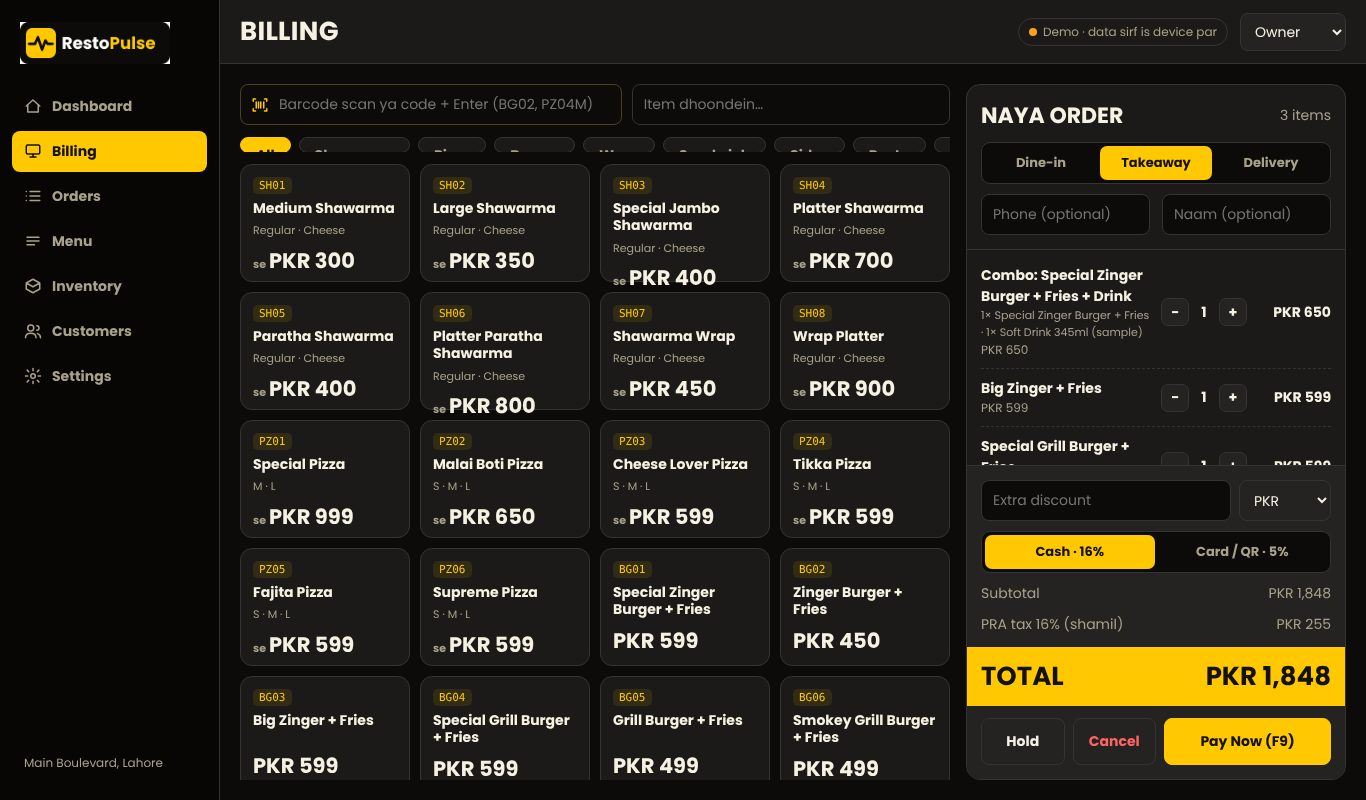
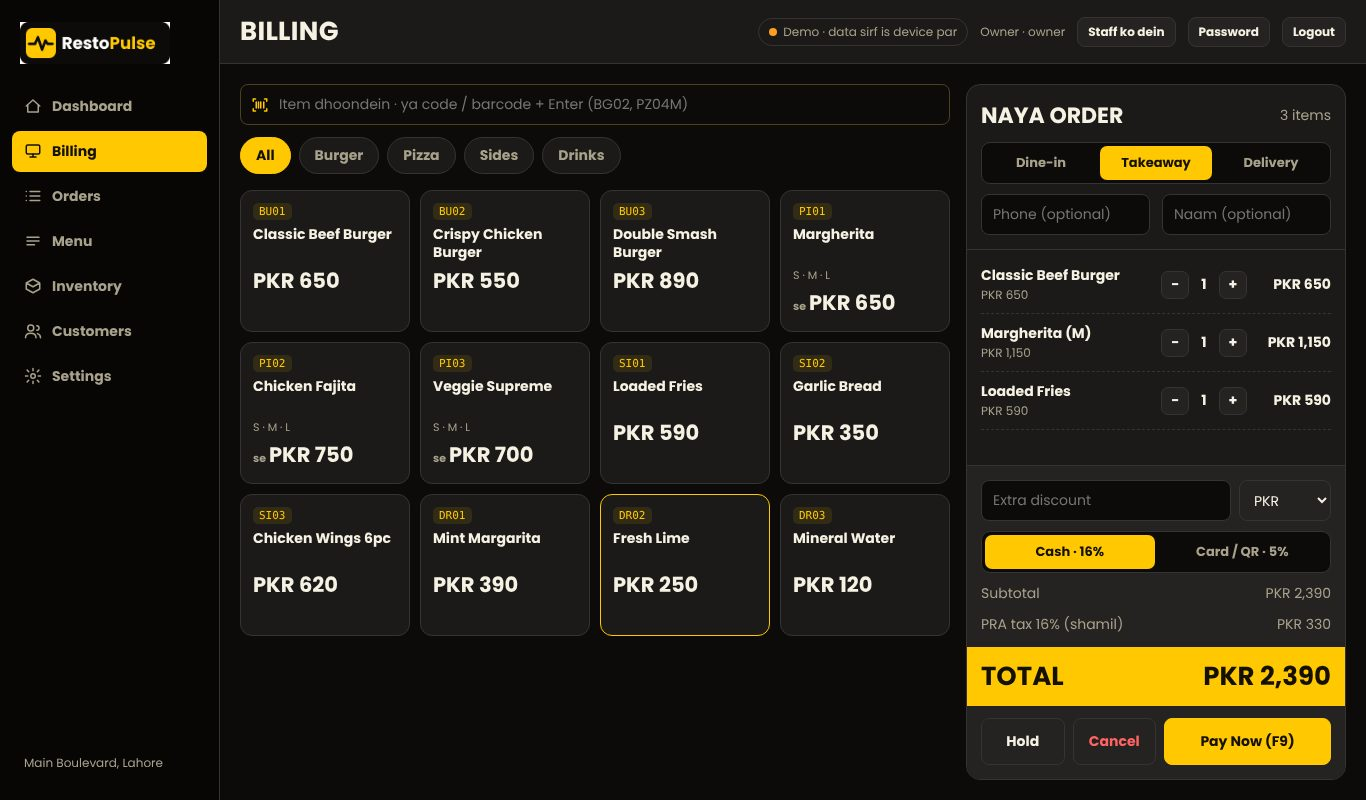
RestoPulse: build the menu from photos; AK47 menu removed
- Settings and Menu: 'Photo se menu' reads menu photos with free in-browser OCR (Tesseract), section boxes or 2-column split, then a check list before saving
- Demo starts with an empty menu; old AK47 sample menu and dead setup/register code removed
- SaaS page screenshots use a generic menu

Claude-Session: https://claude.ai/code/session_01MmFRvNMaLvhDXBVKLRts1p

diff --git a/restopulse/index.html b/restopulse/index.html
@@ -339,13 +339,13 @@ const DEFAULT_SETTINGS = {
   phone: "0300-0000000", ntn: "",
   cashTax: 16, cardTax: 5, taxOnTop: false, deliveryFee: 50,
   offer: { on: false, amt: 50, cats: [] },
-  pizzaDrink: true, width: "w80", lowStock: 10,
+  pizzaDrink: false, width: "w80", lowStock: 10,
   footer: "Shukriya! Dobara tashreef laiye.",
   perms: { manager: { profit: false }, cashier: { profit: false } }, offers: []
 };
 if (typeof module !== "undefined") module.exports = { calcOrder, freebies, evalOffers, offerLive, DEFAULT_SETTINGS };
 
-const MENU=[{"code":"SH01","name":"Medium Shawarma","cat":"Shawarma","sizes":[{"l":"Regular","p":300},{"l":"Cheese","p":350}]},{"code":"SH02","name":"Large Shawarma","cat":"Shawarma","sizes":[{"l":"Regular","p":350},{"l":"Cheese","p":400}]},{"code":"SH03","name":"AK47 Special Jambo Shawarma","cat":"Shawarma","sizes":[{"l":"Regular","p":400},{"l":"Cheese","p":450}]},{"code":"SH04","name":"Platter Shawarma","cat":"Shawarma","sizes":[{"l":"Regular","p":700},{"l":"Cheese","p":750}]},{"code":"SH05","name":"Paratha Shawarma","cat":"Shawarma","sizes":[{"l":"Regular","p":400},{"l":"Cheese","p":450}]},{"code":"SH06","name":"Platter Paratha Shawarma","cat":"Shawarma","sizes":[{"l":"Regular","p":800},{"l":"Cheese","p":850}]},{"code":"SH07","name":"AK47 Shawarma Wrap","cat":"Shawarma","sizes":[{"l":"Regular","p":450},{"l":"Cheese","p":500}]},{"code":"SH08","name":"Wrap Platter","cat":"Shawarma","sizes":[{"l":"Regular","p":900},{"l":"Cheese","p":999}]},{"code":"PZ01","name":"AK47 Special Pizza","cat":"Pizza","sizes":[{"l":"M","p":999},{"l":"L","p":1599}]},{"code":"PZ02","name":"Malai Boti Pizza","cat":"Pizza","sizes":[{"l":"S","p":650},{"l":"M","p":899},{"l":"L","p":1499}]},{"code":"PZ03","name":"Cheese Lover Pizza","cat":"Pizza","sizes":[{"l":"S","p":599},{"l":"M","p":899},{"l":"L","p":1499}]},{"code":"PZ04","name":"Tikka Pizza","cat":"Pizza","sizes":[{"l":"S","p":599},{"l":"M","p":899},{"l":"L","p":1499}]},{"code":"PZ05","name":"Fajita Pizza","cat":"Pizza","sizes":[{"l":"S","p":599},{"l":"M","p":899},{"l":"L","p":1499}]},{"code":"PZ06","name":"Supreme Pizza","cat":"Pizza","sizes":[{"l":"S","p":599},{"l":"M","p":899},{"l":"L","p":1499}]},{"code":"BG01","name":"AK47 Special Zinger Burger + Fries","cat":"Burger","price":599},{"code":"BG02","name":"Zinger Burger + Fries","cat":"Burger","price":450},{"code":"BG03","name":"Big Zinger + Fries","cat":"Burger","price":599},{"code":"BG04","name":"AK47 Special Grill Burger + Fries","cat":"Burger","price":599},{"code":"BG05","name":"Grill Burger + Fries","cat":"Burger","price":499},{"code":"BG06","name":"Smokey Grill Burger + Fries","cat":"Burger","price":499},{"code":"BG07","name":"Jalapeno Crispy Burger + Fries","cat":"Burger","price":499},{"code":"BG08","name":"Chicken Petty Burger + Fries","cat":"Burger","price":399},{"code":"BG09","name":"Double Petty Chicken Burger + Fries","cat":"Burger","price":499},{"code":"WR01","name":"AK47 Special Grilled Wrap","cat":"Wrap","price":550},{"code":"WR02","name":"AK47 Special Zinger Wrap","cat":"Wrap","price":550},{"code":"WR03","name":"AK47 Special Zinger Pratha Roll","cat":"Wrap","price":499},{"code":"WR04","name":"AK47 Special Paratha Roll","cat":"Wrap","price":499},{"code":"WR05","name":"Grill Paratha Roll","cat":"Wrap","price":450},{"code":"WR06","name":"Grilled Wrap","cat":"Wrap","price":499},{"code":"WR07","name":"Zinger Wrap","cat":"Wrap","price":450},{"code":"WR08","name":"Jalapeno Crispy Wrap","cat":"Wrap","price":499},{"code":"WR09","name":"Zinger Pratha Roll","cat":"Wrap","price":499},{"code":"WR10","name":"Zinger Shawarma","cat":"Wrap","price":399},{"code":"SW01","name":"AK47 Special Sandwich + Fries","cat":"Sandwich","sizes":[{"l":"3pc","p":600}]},{"code":"SW02","name":"Club Sandwich + Fries","cat":"Sandwich","sizes":[{"l":"3pc","p":550}]},{"code":"SW03","name":"Smokey Sandwich + Fries","cat":"Sandwich","sizes":[{"l":"2pc","p":400},{"l":"3pc","p":550}]},{"code":"SW04","name":"Grill Sandwich + Fries","cat":"Sandwich","sizes":[{"l":"2pc","p":400},{"l":"3pc","p":550}]},{"code":"SW05","name":"Tikka Sandwich + Fries","cat":"Sandwich","sizes":[{"l":"2pc","p":400},{"l":"3pc","p":550}]},{"code":"SW06","name":"Turkish Sandwich + Fries","cat":"Sandwich","sizes":[{"l":"2pc","p":400},{"l":"3pc","p":600}]},{"code":"SW07","name":"Zinger Sandwich + Fries","cat":"Sandwich","sizes":[{"l":"2pc","p":400},{"l":"3pc","p":600}]},{"code":"SW08","name":"Fajita Sandwich + Fries","cat":"Sandwich","sizes":[{"l":"2pc","p":400},{"l":"3pc","p":600}]},{"code":"SD01","name":"AK47 Special Loaded Fries","cat":"Sides","price":600},{"code":"SD02","name":"French Fries Full","cat":"Sides","price":350},{"code":"SD03","name":"Masala Fries","cat":"Sides","price":300},{"code":"SD04","name":"Plain Fries","cat":"Sides","price":200},{"code":"SD05","name":"Smokey Dragon Wings Half + Fries","cat":"Sides","price":400},{"code":"SD06","name":"Smokey Dragon Wings Full + Fries","cat":"Sides","price":700},{"code":"SD07","name":"Crispy Hot Wings 5pc + Fries","cat":"Sides","price":400},{"code":"SD08","name":"Crispy Hot Wings 10pc + Fries","cat":"Sides","price":650},{"code":"SD09","name":"Nuggets 5pc + Dip + Fries","cat":"Sides","price":350},{"code":"SD10","name":"Nuggets 10pc + Dip + Fries","cat":"Sides","price":600},{"code":"PS01","name":"AK47 Special Baked Pasta","cat":"Pasta","price":650},{"code":"PS02","name":"Alfredo Pasta","cat":"Pasta","price":600},{"code":"PS03","name":"Italian Pasta","cat":"Pasta","price":500},{"code":"EX01","name":"Extra Mayo Dip","cat":"Extras","price":50},{"code":"EX02","name":"Extra Shawarma Bread","cat":"Extras","price":50}];
+const MENU=[];
[1 lines of base64/hex data omitted]
 const hex2rgb=h=>{h=h.replace("#","");return[parseInt(h.slice(0,2),16),parseInt(h.slice(2,4),16),parseInt(h.slice(4,6),16)]};
 const rgb2hex=a=>"#"+a.map(v=>Math.max(0,Math.min(255,Math.round(v))).toString(16).padStart(2,"0")).join("");
@@ -393,8 +393,7 @@ const priceText=i=>i.sizes&&i.sizes.length?i.sizes.map(z=>z.l+" "+z.p).join(" ·
 let MODE="local",TOKEN=null,S=null,DEVICES=0,SYNC="local";
 const KEY="ak47.data.v2";
 function seedLocal(){
-  const items=MENU.map(m=>({id:uid(),code:m.code,name:m.name.replace(/AK47 /g,""),cat:m.cat,price:m.price||0,sizes:m.sizes||null,barcode:"",track:false,stock:0}));
-  items.push({id:uid(),code:"DR01",name:"Soft Drink 345ml (sample)",cat:"Drinks",price:120,sizes:null,barcode:"8961008200011",track:true,stock:48});
+  const items=[];
   const st={settings:JSON.parse(JSON.stringify(DEFAULT_SETTINGS)),items,orders:[],held:[],seq:0,me:{name:"Owner",role:"owner"},business:{name:"Demo Restaurant"}};
   st.items.forEach(i=>{i.cost=Math.round((i.price||(i.sizes?i.sizes[0].p:0))*.55);if(i.sizes){i.sizeCosts={};i.sizes.forEach(z=>i.sizeCosts[z.l]=Math.round(z.p*.55))}});
   const bg=st.items.find(i=>i.cat==="Burger"&&!i.sizes)||st.items.find(i=>!i.sizes),dr=st.items.find(i=>i.track);
@@ -403,7 +402,7 @@ function seedLocal(){
   st.settings.perms={manager:{profit:false},cashier:{profit:false}};
   st.users=[{id:"u_owner",name:"Owner",login:"owner",password:"owner123",role:"owner",active:true}];
   const now=Date.now();const pick=()=>items[Math.floor(Math.random()*(items.length-1))];
-  for(let d=6;d>=0;d--){const n=10+Math.floor(Math.random()*12);for(let k=0;k<n;k++){
+  if(items.length>1)for(let d=6;d>=0;d--){const n=10+Math.floor(Math.random()*12);for(let k=0;k<n;k++){
     const lines=[];const c=1+Math.floor(Math.random()*3);
     for(let j=0;j<c;j++){const it=pick();const z=it.sizes?it.sizes[Math.floor(Math.random()*it.sizes.length)]:null;lines.push({id:it.id,size:z?z.l:null,name:it.name+(z?" ("+z.l+")":""),price:z?z.p:it.price,qty:1+Math.floor(Math.random()*2),cat:it.cat})}
     st.orders.push(calcOrder({id:uid(),ts:now-d*864e5-Math.floor(Math.random()*6*36e5),type:["Dine-in","Takeaway","Delivery"][Math.floor(Math.random()*3)],lines,disc:0,discType:"pkr",pay:Math.random()<.35?"card":"cash",demo:true,status:"paid",by:"Owner",cust:Math.random()<.3?{name:["Ali","Hamza","Ayesha","Usman","Sana"][k%5],phone:"0300-000000"+(k%5)}:null},st.settings));
@@ -563,7 +562,6 @@ function unameField(inp,hint){const f=()=>{const u=uname(inp.value);hint.textCon
 async function loadBrand(){try{const b=await rpc("branding");if(b&&b.setup){LOGO=b.logo||DEF_LOGO;applyTheme(b.theme)}return b}catch(e){return null}}
 async function authScreen(why){
   const b=MODE==="local"?null:await loadBrand();
-  if(b&&b.setup===false)return setupScreen();
   $("#root").innerHTML=`<div class="auth"><form class="card" id="af"><img src="${LOGO}" alt="RestoPulse">
    <h3 style="text-align:center">Login</h3><p class="muted" style="text-align:center;margin:-8px 0 12px;font-size:13px">RestoPulse · restaurant billing &amp; POS</p>
    ${why==="handover"?`<div class="card" style="background:var(--bg);border-color:var(--y);margin-bottom:12px;font-size:13px;line-height:1.6"><b style="color:var(--y)">Owner ka account band ho gaya.</b><br>Staff ab apna username aur password dale. Owner wapas apne hi username aur password se login karega.</div>`:""}
@@ -585,55 +583,6 @@ async function authScreen(why){
       const {error}=await SB.auth.signInWithPassword({email:uname($("#a_login").value)+UDOM,password:$("#a_pw").value});
       if(error)throw new Error(/Invalid login/i.test(error.message)?"Username ya password ghalat hai.":error.message);
       TOKEN="sb";await enter();
-    }catch(x){err.textContent=x.message||String(x);btn.disabled=false}};
-}
-const SAMPLE_MENU=[{code:"BG01",name:"Zinger Burger",cat:"Burger",price:550},{code:"BG02",name:"Chicken Burger",cat:"Burger",price:450},{code:"BG03",name:"Beef Burger",cat:"Burger",price:650},
- {code:"PZ01",name:"Chicken Tikka Pizza",cat:"Pizza",sizes:[{l:"S",p:550},{l:"M",p:1050},{l:"L",p:1450}]},{code:"PZ02",name:"Fajita Pizza",cat:"Pizza",sizes:[{l:"S",p:550},{l:"M",p:1050},{l:"L",p:1450}]},
- {code:"SW01",name:"Chicken Shawarma",cat:"Shawarma",price:300},{code:"SW02",name:"Zinger Shawarma",cat:"Shawarma",price:400},
- {code:"FR01",name:"French Fries",cat:"Sides",sizes:[{l:"Regular",p:250},{l:"Large",p:400}]},{code:"FR02",name:"Loaded Fries",cat:"Sides",price:550},{code:"NG01",name:"Nuggets (6 pc)",cat:"Sides",price:450},
- {code:"DR01",name:"Soft Drink",cat:"Drinks",sizes:[{l:"345ml",p:120},{l:"1.5 Litre",p:250}]},{code:"DR02",name:"Mineral Water",cat:"Drinks",price:100}];
-function registerScreen(){
-  $("#root").innerHTML=`<div class="auth"><form class="card" id="rf"><img src="${LOGO}" alt="RestoPulse">
-   <h3 style="text-align:center">Naya restaurant register karein</h3>
-   <div style="display:flex;flex-direction:column;gap:12px">
-   <label class="f">Restaurant ka naam<input class="in" id="r_biz" required maxlength="80" autofocus placeholder="jaise Lahori Grill"></label>
-   <label class="f">Owner ka naam<input class="in" id="r_owner" required maxlength="60"></label>
-   <label class="f">Username (login ke liye)<input class="in" id="r_user" required autocomplete="username" autocapitalize="none" placeholder="jaise ali.khan"><span class="muted" id="r_uh" style="font-size:12px"></span></label>
-   <label class="f">Password (kam se kam 8)<input class="in" id="r_pw" type="password" required minlength="8" autocomplete="new-password"></label>
-   <label class="f">Password dobara<input class="in" id="r_pw2" type="password" required minlength="8" autocomplete="new-password"></label>
-   <label class="f" style="flex-direction:row;align-items:center;gap:8px"><input type="checkbox" id="r_seed" checked> Sample menu daal dein (baad mein rates aur items badal sakte hain)</label>
-   <p id="rerr" style="color:var(--bad);margin:0;min-height:18px"></p>
-   <button class="btn y" id="rb">Register karein</button>
-   <button type="button" class="btn" id="goLogin">Pehle se account hai? Login</button></div></form></div>`;
-  unameField($("#r_user"),$("#r_uh"));
-  $("#goLogin").onclick=authScreen;
-  $("#rf").onsubmit=async e=>{e.preventDefault();const err=$("#rerr");err.textContent="";
-    const user=uname($("#r_user").value),pass=$("#r_pw").value;
-    if(pass!==$("#r_pw2").value){err.textContent="Dono password ek jaise nahi.";return}
-    const btn=$("#rb");btn.disabled=true;btn.textContent="Ban raha hai…";
-    try{await rpc("register_restaurant",{p_business:$("#r_biz").value.trim(),p_owner:$("#r_owner").value.trim(),p_username:user,p_password:pass,p_menu:$("#r_seed").checked?SAMPLE_MENU:null});
-      const {error}=await SB.auth.signInWithPassword({email:user+UDOM,password:pass});if(error)throw error;
-      TOKEN="sb";await enter();
-    }catch(x){err.textContent=x.message||String(x);btn.disabled=false;btn.textContent="Register karein"}};
-}
-function setupScreen(){
-  $("#root").innerHTML=`<div class="auth"><form class="card" id="sf1"><img src="${LOGO}" alt="RestoPulse">
-   <h3 style="text-align:center">Pehli dafa setup</h3><p class="muted" style="margin:-4px 0 12px;font-size:13px;text-align:center">Yeh sirf ek dafa hota hai. Setup code Power Pulse se milega.</p>
-   <div style="display:flex;flex-direction:column;gap:12px">
-   <label class="f">Setup code<input class="in" id="u_code" required autocapitalize="characters" autofocus></label>
-   <label class="f">Restaurant ka naam<input class="in" id="u_biz" required value="AK47"></label>
-   <label class="f">Owner ka naam<input class="in" id="u_owner" required></label>
-   <label class="f">Owner ka username<input class="in" id="u_user" required autocapitalize="none" autocomplete="off" placeholder="jaise ali.khan"><span class="muted" style="font-weight:400">Chhote huroof, bina space. Space khud "." ban jayega.</span><span id="u_hint" style="color:var(--ok);font-weight:600"></span></label>
-   <label class="f">Password<input class="in" id="u_pass" type="password" required minlength="6" autocomplete="new-password"></label>
-   <label class="f" style="flex-direction:row;align-items:center;gap:8px"><input type="checkbox" id="u_seed" checked> AK47 ka menu, rates aur shop details load karein</label>
-   <p id="serr1" style="color:var(--bad);margin:0;min-height:18px"></p><button class="btn y" id="sbtn">Setup mukammal karein</button></div></form></div>`;
-  unameField($("#u_user"),$("#u_hint"));
-  $("#sf1").onsubmit=async e=>{e.preventDefault();const err=$("#serr1");err.textContent="";const btn=$("#sbtn");btn.disabled=true;
-    try{const seed=$("#u_seed").checked;const ak={...DEFAULT_SETTINGS};delete ak.name;
-      const user=uname($("#u_user").value),pass=$("#u_pass").value;
-      await rpc("setup_business",{p_code:$("#u_code").value.trim(),p_business:$("#u_biz").value,p_owner:$("#u_owner").value,p_username:user,p_password:pass,p_menu:seed?MENU:null,p_settings:seed?ak:null});
-      const {error}=await SB.auth.signInWithPassword({email:user+UDOM,password:pass});if(error)throw error;
-      TOKEN="sb";toast("Setup ho gaya");await enter();
     }catch(x){err.textContent=x.message||String(x);btn.disabled=false}};
 }
 function noBusinessScreen(me){
@@ -700,8 +649,9 @@ function renderGrid(){
   const q=UI.q.trim().toLowerCase();
   const list=S.items.filter(i=>(UI.cat==="All"||i.cat===UI.cat)&&(!q||i.name.toLowerCase().includes(q)||i.code.toLowerCase().includes(q)||(i.barcode&&i.barcode===UI.q.trim())));
   $("#grid").innerHTML=list.length?list.map(i=>{const out=i.track&&i.stock<=0;const multi=i.sizes&&i.sizes.length>1;
-    return `<button class="tile ${out?"out":""}" data-add="${i.id}" ${out?"disabled":""}><span class="code">${esc(i.code)}</span>${i.track?`<span class="st pill ${i.stock<=0?"bad":i.stock<=S.settings.lowStock?"warn":"ok"}">${i.stock}</span>`:""}<span class="nm">${esc(i.name)}</span>${multi?`<span class="sz">${esc(i.sizes.map(z=>z.l).join(" · "))}</span>`:""}${i.addons&&i.addons.length?`<span class="sz">+ add-ons</span>`:""}<span class="pr num">${multi?"<small>se</small>":""}${pkr(minPrice(i))}</span></button>`}).join(""):`<div class="empty" style="grid-column:1/-1">Koi item nahi mila</div>`;
+    return `<button class="tile ${out?"out":""}" data-add="${i.id}" ${out?"disabled":""}><span class="code">${esc(i.code)}</span>${i.track?`<span class="st pill ${i.stock<=0?"bad":i.stock<=S.settings.lowStock?"warn":"ok"}">${i.stock}</span>`:""}<span class="nm">${esc(i.name)}</span>${multi?`<span class="sz">${esc(i.sizes.map(z=>z.l).join(" · "))}</span>`:""}${i.addons&&i.addons.length?`<span class="sz">+ add-ons</span>`:""}<span class="pr num">${multi?"<small>se</small>":""}${pkr(minPrice(i))}</span></button>`}).join(""):S.items.length?`<div class="empty" style="grid-column:1/-1">Koi item nahi mila</div>`:`<div class="empty" style="grid-column:1/-1;line-height:1.7">Menu abhi khaali hai.<br>${UI.role!=="cashier"?`<button class="btn y" id="emptyImp" style="margin-top:10px">Menu ki photo se items daalein</button>`:"Owner ya manager menu daalega."}</div>`;
   document.querySelectorAll("[data-add]").forEach(b=>b.onclick=()=>pickItem(b.dataset.add));
+  const ei=$("#emptyImp");ei&&(ei.onclick=()=>menuImport());
 }
 function pickItem(id,fromScan,presetSize){
   const it=S.items.find(i=>i.id===id);if(!it)return;
@@ -851,10 +801,10 @@ function vOrders(){
 
 /* ============ menu (rates change here, no code) ============ */
 function vMenu(){
-  $("#view").innerHTML=`<div class="card"><div class="row" style="justify-content:space-between;margin-bottom:12px"><span class="muted">Rate badalne ke liye item par Edit dabayen. Change sab devices par fauran pohanch jata hai.</span><button class="btn y" id="addI">+ Naya item</button></div>
+  $("#view").innerHTML=`<div class="card"><div class="row" style="justify-content:space-between;margin-bottom:12px"><span class="muted">Rate badalne ke liye item par Edit dabayen. Change sab devices par fauran pohanch jata hai.</span><div class="row"><button class="btn" id="impI">Photo se menu</button><button class="btn y" id="addI">+ Naya item</button></div></div>
   <div class="tbl-wrap"><table><tr><th>Code</th><th>Naam</th><th>Category</th><th class="r">Rate (PKR)</th><th>Barcode</th><th>Stock</th><th></th></tr>
   ${S.items.map(i=>`<tr><td><span class="pill y">${esc(i.code)}</span></td><td>${esc(i.name)}</td><td class="muted">${esc(i.cat)}</td><td class="r num">${esc(priceText(i))}${i.addons&&i.addons.length?`<div class="muted" style="font-size:11px">+ ${i.addons.length} add-ons</div>`:""}</td><td class="muted num">${esc(i.barcode)||"—"}</td><td>${i.track?i.stock:'<span class="muted">—</span>'}</td><td><button class="btn sm" data-ed="${i.id}">Edit</button></td></tr>`).join("")}</table></div></div>`;
-  $("#addI").onclick=()=>itemForm();
+  $("#addI").onclick=()=>itemForm();$("#impI").onclick=()=>menuImport();
   document.querySelectorAll("[data-ed]").forEach(b=>b.onclick=()=>itemForm(S.items.find(i=>i.id===b.dataset.ed)));
 }
 function itemForm(it,preset){
@@ -975,7 +925,7 @@ function vCust(){
 /* ============ settings ============ */
 function vSet(){
   const s=S.settings;const cats=[...new Set(S.items.map(i=>i.cat))];
-  $("#view").innerHTML=`<div class="card" style="margin-bottom:14px" id="brandCard"></div><div class="card" style="margin-bottom:14px" id="rcCard"></div><div class="card" style="margin-bottom:14px" id="offCard"></div>${UI.role==="owner"?`<div class="card" style="margin-bottom:14px" id="permCard"></div>`:""}<div class="dgrid"><form class="card" id="sf"><h3>Shop, tax &amp; receipt</h3><div class="fgrid">
+  $("#view").innerHTML=`<div class="card" style="margin-bottom:14px" id="brandCard"></div><div class="card" style="margin-bottom:14px" id="rcCard"></div><div class="card" style="margin-bottom:14px"><div class="row" style="justify-content:space-between"><div><h3 style="margin:0">Menu photo se banayen</h3><p class="muted" style="font-size:13px;margin:6px 0 0">Apne menu card ki photo daalein. Software items, sizes aur rate parh kar list banata hai; aap check kar ke menu mein daal dete hain. Abhi menu mein ${S.items.length} items hain.</p></div><button class="btn y" id="setImp" type="button">Photo se menu</button></div></div><div class="card" style="margin-bottom:14px" id="offCard"></div>${UI.role==="owner"?`<div class="card" style="margin-bottom:14px" id="permCard"></div>`:""}<div class="dgrid"><form class="card" id="sf"><h3>Shop, tax &amp; receipt</h3><div class="fgrid">
    <label class="f">Shop naam<input class="in" id="s_name" value="${esc(s.name)}"></label>
    <label class="f">Tagline<input class="in" id="s_tag" value="${esc(s.tagline)}"></label>
    <label class="f full">Address<input class="in" id="s_addr" value="${esc(s.address)}"></label>
@@ -1004,7 +954,7 @@ function vSet(){
    <div class="card"><h3>Hardware</h3><p class="muted" style="line-height:1.6">Barcode scanner: USB scanner keyboard ki tarah kaam karta hai. Billing par kahin bhi scan karein, item cart mein aa jayega. Size wale item ka code + size bhi chalta hai (PZ04M, SW032pc).<br>Thermal printer: Windows mein printer driver install karein aur default bana dein, phir receipt par Print dabayen.</p></div>
   </div></div>`;
   $("#s_top").value=s.taxOnTop?"1":"0";$("#s_w").value=s.width;
-  brandCard();rcCard();offCard();permCard();
+  brandCard();rcCard();offCard();permCard();$("#setImp").onclick=()=>menuImport();
   $("#sf").onsubmit=e=>{e.preventDefault();const v=id=>$(id).value;
     const ns={name:v("#s_name"),tagline:v("#s_tag"),address:v("#s_addr"),phone:v("#s_phone"),ntn:v("#s_ntn"),cashTax:+v("#s_cash")||0,cardTax:+v("#s_card")||0,taxOnTop:v("#s_top")==="1",deliveryFee:+v("#s_fee")||0,width:v("#s_w"),lowStock:+v("#s_low")||0,footer:v("#s_foot"),
       offer:{on:$("#o_on").checked,amt:+v("#o_amt")||0,cats:[...document.querySelectorAll("[data-oc]")].filter(x=>x.checked).map(x=>x.dataset.oc)},pizzaDrink:$("#o_pd").checked};
@@ -1038,6 +988,181 @@ function showCred(c){
   m.querySelector("#wa").href="https://wa.me/?text="+encodeURIComponent(txt);
   m.querySelector("#cp").onclick=async()=>{try{await navigator.clipboard.writeText(txt);toast("Copy ho gaya")}catch(e){toast("Copy nahi hua, khud likh lein",true)}};
   m.querySelector("#x").onclick=close;
+}
+
+/* RestoPulse: turn OCR text of a menu photo into items. Owner checks the list before it is saved. */
+const MENU_CAT_WORDS = ["pizza","pizzas","burger","burgers","wrap","wraps","roll","rolls","sandwich","sandwiches","shawarma","shawarmas","pasta","pastas","drink","drinks","beverage","beverages","deal","deals","combo","combos","side","sides","sided","starter","starters","starts","appetizer","appetizers","fries","bbq","karahi","handi","rice","biryani","dessert","desserts","sweet","sweets","shake","shakes","juice","juices","tea","coffee","chinese","soup","soups","salad","salads","breakfast","platter","platters","steak","steaks","wings","snack","snacks","special","specials","main","course","menu","extra","extras","add","ons","addons","naan","roti","bread","breads","broast","fried","chicken","grill","grilled","tikka","kabab","kebab","paratha","family","kids","hot","cold","ice","cream","&","/","and","+","our","item","items"];
+const SIZE_WORDS = {s:"S",m:"M",l:"L",xl:"XL",small:"Small",medium:"Medium",large:"Large",regular:"Regular",reg:"Regular",half:"Half",full:"Full",single:"Single",double:"Double",quarter:"Quarter"};
+function mpTitle(s){return s.toLowerCase().replace(/(^|[\s/&(+-])([a-z])/g,(a,b,c)=>b+c.toUpperCase()).replace(/\bAk47\b/gi,"AK47").replace(/\bBbq\b/g,"BBQ")}
+function mpSizeHeader(line){
+  // a row like "S M L", "Small Medium Large", "2pc 3pc", 7" 10" 13"
+  const t=line.replace(/[^\w"'\s]/g," ").trim().split(/\s+/).filter(Boolean);
+  if(t.length<2||t.length>5)return null;
+  const out=[];
+  for(const w of t){const lw=w.toLowerCase().replace(/['"]/g,"");
+    if(SIZE_WORDS[lw])out.push(SIZE_WORDS[lw]);
+    else if(/^\d{1,2}(pc|pcs|piece|pieces|"|inch|in|ml|ltr|l)$/i.test(w))out.push(w.replace(/pieces?$/i,"pc").replace(/pcs$/i,"pc"));
+    else return null}
+  return out.length>=2?out:null;
+}
+function mpIsCategory(name, hasPrice){
+  const words=name.toLowerCase().replace(/[^a-z&/+ ]/g," ").split(/\s+/).filter(Boolean);
+  if(!words.length||words.length>4)return false;
+  const allCat=words.every(w=>MENU_CAT_WORDS.includes(w));
+  const letters=name.replace(/[^A-Za-z]/g,"");
+  const upper=letters.length>=3&&letters===letters.toUpperCase();
+  const HEAD=["sided","starts","starters","sides","deals","drinks","beverages","extras","desserts","appetizers","burgers","pizzas","wraps","rolls","sandwiches","shakes","juices","soups","salads","snacks","specials","platters","steaks","combos","breads","sweets","menu"];
+  if(allCat&&(upper||words.some(w=>HEAD.includes(w))))return true;
+  if(!hasPrice&&upper&&words.length<=3)return true;
+  return false;
+}
+function parseMenuText(text){
+  const items=[];let cat="",sizes=null,pending=null;
+  const lines=String(text).replace(/\r/g,"").split("\n");
+  for(let raw of lines){
+    let line=raw.replace(/[“”«»‘’]/g," ").replace(/\b(rs|pkr)\.?\s*/gi," ").replace(/(\d)\s*\/\s*-?/g,"$1 ").replace(/(\d),(?=\s|$)/g,"$1").replace(/\s+/g," ").trim();
+    if(!line)continue;
+    const sh=mpSizeHeader(line);if(sh){sizes=sh;continue}
+    const tok=line.split(" ");
+    // last token that is a real word (3+ letters, or letters+digits like 5Pc / AK47)
+    let lw=-1;
+    for(let i=0;i<tok.length;i++){const w=tok[i].replace(/^[^A-Za-z0-9(]+|[^A-Za-z0-9)]+$/g,"");
+      if(/[A-Za-z]{3,}/.test(w)||/^AK\d+$/i.test(w)||/^\d+(pc|pcs|ml|ltr|l|kg|g)$/i.test(w)||/^\(.*\)$/.test(tok[i]))lw=i;}
+    const head=lw>=0?tok.slice(0,lw+1).join(" "):"";
+    const tail=lw>=0?tok.slice(lw+1):tok;
+    const slots=[];
+    for(const t of tail){const c=t.replace(/^[^\d-–—]+|[^\d]+$/g,"");
+      if(/^[-–—]+$/.test(t.trim())){slots.push(null);continue}
+      if(/^\d{2,5}$/.test(c)&&!/[A-Za-z]/.test(t)){const n=+c;if(n>=10&&n<=99999)slots.push(n)}}
+    while(slots.length&&slots[0]===null&&slots.slice(1).every(x=>x===null))slots.shift();
+    const prices=slots.filter(x=>x!==null);
+    let name=head.replace(/^[^A-Za-z0-9(]+/,"").replace(/[^A-Za-z0-9)]+$/,"").replace(/\s+[^\sA-Za-z0-9()+&]+(?=\s|$)/g,"").trim();
+    // OCR leaves short junk after the name ("Masala Fries Shy", "Roll P47"): drop it
+    const KEEP=["dip","tea","hot","ice","egg","bun","pie","bbq","mix","veg","jam","cup","pc","ml","h","f"];
+    let nt=name.split(" ");
+    while(nt.length>1){const w=nt[nt.length-1];const lw2=w.toLowerCase().replace(/[^a-z0-9]/g,"");
+      if(/\)$/.test(w)&&/\(/.test(nt.join(" ")))break;
+      if((lw2.length<=3&&!KEEP.includes(lw2)&&!/^\d+(pc|ml|l)$/.test(lw2))||/^[a-z]{1,2}\d+\)?$/i.test(lw2)&&!/^ak\d+$/i.test(lw2)){nt.pop();continue}
+      break}
+    name=nt.join(" ").replace(/[^A-Za-z0-9)]+$/,"");
+    // "WRAP Ses": category word in capitals at the start, junk after it
+    if(!prices.length){const lead=[];for(const w of name.split(" ")){if(w===w.toUpperCase()&&MENU_CAT_WORDS.includes(w.toLowerCase()))lead.push(w);else break}
+      if(lead.length&&lead.join("").length>=3)name=lead.join(" ")}
+    if(!name&&prices.length){ // price on its own line: belongs to the item above
+      if(pending){pending.slots=slots;finish(pending);pending=null}
+      continue}
+    if(!name)continue;
+    if(mpIsCategory(name,prices.length>0)){cat=mpTitle(name.replace(/[^A-Za-z&/ ]/g," ").replace(/\s+/g," ").trim());sizes=null;if(pending){items.push(pending);pending=null}continue}
+    if(!prices.length){if(pending)items.push(pending);pending={name,cat,slots:[],sizesHint:sizes,noPrice:true};continue}
+    if(pending){items.push(pending);pending=null}
+    finish({name,cat,slots,sizesHint:sizes});
+  }
+  if(pending)items.push(pending);
+  function finish(it){
+    const s=it.slots;const real=s.filter(x=>x!==null);
+    it.noPrice=!real.length;
+    if(s.length===1||real.length===1&&!(it.sizesHint&&s.length===it.sizesHint.length)){it.price=real[0]||0;it.sizes=null}
+    else if(real.length){
+      const labels=it.sizesHint&&it.sizesHint.length===s.length?it.sizesHint:s.length===3?["S","M","L"]:s.length===2?["Regular","Large"]:s.map((_,k)=>"Size "+(k+1));
+      it.sizes=s.map((p,k)=>p===null?null:{l:labels[k],p}).filter(Boolean);it.price=0}
+    items.push(it);
+  }
+  const seen=new Set();
+  return items.map(it=>({name:it.name.replace(/\s+/g," ").trim(),cat:it.cat||"Menu",price:it.price||0,sizes:it.sizes||null,ok:!it.noPrice}))
+    .filter(it=>it.name.replace(/[^A-Za-z]/g,"").length>=3)
+    .filter(it=>{const k=(it.name+"|"+it.price+"|"+JSON.stringify(it.sizes)).toLowerCase();if(seen.has(k))return false;seen.add(k);return true});
+}
+
+/* ============ menu from photos (free OCR in the browser) ============ */
+let TESS=null;
+function loadTesseract(){if(window.Tesseract)return Promise.resolve();if(TESS)return TESS;
+  TESS=new Promise((ok,no)=>{const sc=document.createElement("script");sc.src="https://cdn.jsdelivr.net/npm/tesseract.js@5.1.1/dist/tesseract.min.js";sc.onload=ok;sc.onerror=()=>{TESS=null;no(new Error("OCR load nahi hua. Internet check karein."))};document.head.appendChild(sc)});return TESS}
+function prepCanvas(img,r){ // crop, 2x, grayscale, stretch contrast: far better OCR on coloured menus
+  const sx=Math.round(r.x*img.naturalWidth),sy=Math.round(r.y*img.naturalHeight),sw=Math.max(8,Math.round(r.w*img.naturalWidth)),sh=Math.max(8,Math.round(r.h*img.naturalHeight));
+  const k=Math.min(2,2600/sw,4000/sh);const c=document.createElement("canvas");c.width=Math.round(sw*k);c.height=Math.round(sh*k);
+  const g=c.getContext("2d");g.imageSmoothingQuality="high";g.drawImage(img,sx,sy,sw,sh,0,0,c.width,c.height);
+  const d=g.getImageData(0,0,c.width,c.height),a=d.data;let lo=255,hi=0;const gray=new Uint8ClampedArray(a.length/4);
+  for(let i=0,j=0;i<a.length;i+=4,j++){const v=.299*a[i]+.587*a[i+1]+.114*a[i+2];gray[j]=v;if(v<lo)lo=v;if(v>hi)hi=v}
+  const sc=hi>lo?255/(hi-lo):1;for(let i=0,j=0;i<a.length;i+=4,j++){const v=(gray[j]-lo)*sc;a[i]=a[i+1]=a[i+2]=v}
+  g.putImageData(d,0,0);return c}
+function rateText(it){return it.sizes&&it.sizes.length?it.sizes.map(z=>z.l+" "+z.p).join(" / "):(it.price?String(it.price):"")}
+function readRate(t){t=String(t||"").trim();if(!t)return null;
+  if(/^\d+$/.test(t))return{price:+t,sizes:null};
+  const parts=t.split(/[\/,|]+/).map(x=>x.trim()).filter(Boolean),sizes=[];
+  for(const p of parts){const m=p.match(/^(.*?)[\s:=-]*(\d{1,6})$/);if(!m||!m[1].trim())return null;sizes.push({l:m[1].replace(/[:=-]+$/,"").trim().slice(0,20),p:+m[2]})}
+  return sizes.length===1?{price:sizes[0].p,sizes:null}:{price:0,sizes}}
+function menuImport(){
+  const P=[];let cur=0;
+  const m=modal(`<h2>Menu photo se banayen</h2>
+   <p class="muted" style="margin-top:-6px;font-size:13px">1) Menu card ki saaf, seedhi photo chunein. 2) Behtar nateeje ke liye har section (Pizza, Burger…) par ungli/mouse se dabba banayen, ya "2 column" dabayen. 3) "Parhein" dabayen aur list check karein.</p>
+   <div class="row"><label class="btn y" style="cursor:pointer">Photo chunein<input type="file" id="mi_f" accept="image/*" multiple hidden></label><span class="muted" id="mi_n" style="font-size:13px">Koi photo nahi</span></div>
+   <div id="mi_ed" hidden><div class="row" style="margin:10px 0;gap:6px" id="mi_tabs"></div>
+    <div class="row" style="gap:6px;margin-bottom:8px"><button class="btn sm" id="mi_two" type="button">2 column</button><button class="btn sm" id="mi_clr" type="button">Dabbe hatayen (poori photo)</button><span class="muted" id="mi_hint" style="font-size:12px"></span></div>
+    <div id="mi_box" style="position:relative;touch-action:none;user-select:none;border-radius:10px;overflow:hidden;background:#000;max-height:60vh;overflow-y:auto"><img id="mi_img" style="display:block;width:100%;pointer-events:none"></div></div>
+   <p id="mi_st" class="muted" style="min-height:18px;margin:10px 0 0"></p>
+   <div class="row" style="justify-content:flex-end;margin-top:8px"><button type="button" class="btn" id="x">Wapas</button><button class="btn y" id="mi_go" disabled>Parhein</button></div>`);
+  m.querySelector(".md").style.width="min(760px,100%)";m.querySelector("#x").onclick=close;
+  const q=x=>m.querySelector(x),box=q("#mi_box"),im=q("#mi_img");
+  const draw=()=>{box.querySelectorAll(".mi_r").forEach(e=>e.remove());const p=P[cur];if(!p)return;
+    p.regions.forEach((r,k)=>{const d=document.createElement("div");d.className="mi_r";d.style.cssText=`position:absolute;left:${r.x*100}%;top:${r.y*100}%;width:${r.w*100}%;height:${r.h*100}%;border:2px solid var(--y);background:#ffc80022`;
+      d.innerHTML=`<span style="position:absolute;top:0;left:0;background:var(--y);color:#000;font:700 12px/1 Poppins,sans-serif;padding:3px 6px">${k+1} ✕</span>`;
+      d.firstChild.onpointerdown=e=>{e.stopPropagation();p.regions.splice(k,1);draw()};box.appendChild(d)});
+    q("#mi_hint").textContent=p.regions.length?p.regions.length+" hissay chune":"Poori photo parhi jayegi"};
+  const tabs=()=>{q("#mi_tabs").innerHTML=P.map((p,k)=>`<button type="button" class="btn sm ${k===cur?"y":""}" data-pt="${k}">Photo ${k+1}</button>`).join("");
+    q("#mi_tabs").querySelectorAll("[data-pt]").forEach(b=>b.onclick=()=>{cur=+b.dataset.pt;show()})};
+  const show=()=>{const p=P[cur];im.src=p.url;q("#mi_ed").hidden=false;tabs();im.onload=draw;if(im.complete)draw()};
+  q("#mi_f").onchange=e=>{[...e.target.files].slice(0,8).forEach(f=>P.push({url:URL.createObjectURL(f),regions:[]}));
+    if(P.length){cur=P.length-1;show();q("#mi_go").disabled=false;q("#mi_n").textContent=P.length+" photo"}};
+  let st=null;
+  const pt=e=>{const r=im.getBoundingClientRect();return{x:Math.min(1,Math.max(0,(e.clientX-r.left)/r.width)),y:Math.min(1,Math.max(0,(e.clientY-r.top)/r.height))}};
+  box.onpointerdown=e=>{if(!P[cur])return;st=pt(e);box.setPointerCapture(e.pointerId);const d=document.createElement("div");d.id="mi_tmp";d.style.cssText="position:absolute;border:2px dashed var(--y)";box.appendChild(d)};
+  box.onpointermove=e=>{if(!st)return;const p=pt(e),d=q("#mi_tmp");if(!d)return;d.style.left=Math.min(st.x,p.x)*100+"%";d.style.top=Math.min(st.y,p.y)*100+"%";d.style.width=Math.abs(p.x-st.x)*100+"%";d.style.height=Math.abs(p.y-st.y)*100+"%"};
+  box.onpointerup=e=>{if(!st)return;const p=pt(e),d=q("#mi_tmp");d&&d.remove();const r={x:Math.min(st.x,p.x),y:Math.min(st.y,p.y),w:Math.abs(p.x-st.x),h:Math.abs(p.y-st.y)};st=null;
+    if(r.w>.05&&r.h>.03){P[cur].regions.push(r);draw()}};
+  q("#mi_two").onclick=()=>{P[cur].regions=[{x:0,y:0,w:.5,h:1},{x:.5,y:0,w:.5,h:1}];draw()};
+  q("#mi_clr").onclick=()=>{P[cur].regions=[];draw()};
+  q("#mi_go").onclick=()=>busy(q("#mi_go"),async()=>{const stt=q("#mi_st");
+    try{stt.textContent="OCR tayyar ho raha hai (pehli dafa ~10 MB download)…";await loadTesseract();
+      const w=await Tesseract.createWorker("eng",1,{logger:x=>{if(x.status==="recognizing text")stt.textContent=`Parh raha hai… ${Math.round(x.progress*100)}%`}});
+      await w.setParameters({tessedit_pageseg_mode:"6",preserve_interword_spaces:"0"});
+      let found=[];const jobs=[];P.forEach(p=>(p.regions.length?p.regions:[{x:0,y:0,w:1,h:1}]).forEach(r=>jobs.push({p,r})));
+      for(let k=0;k<jobs.length;k++){stt.textContent=`Hissa ${k+1} / ${jobs.length} parh raha hai…`;
+        const img=new Image();img.src=jobs[k].p.url;await img.decode();const {data}=await w.recognize(prepCanvas(img,jobs[k].r));found=found.concat(parseMenuText(data.text))}
+      await w.terminate();
+      if(!found.length){stt.textContent="Is photo se koi item nahi mila. Section par dabba bana kar dobara try karein, ya items khud daalein.";return}
+      menuReview(found);
+    }catch(x){stt.textContent=x.message||String(x)}});
+}
+function menuReview(list){
+  const cats=[...new Set(S.items.map(i=>i.cat).concat(list.map(i=>i.cat)))];
+  const rows=list.map(it=>({...it,rate:rateText(it)}));
+  const m=modal(`<h2>Parhe gaye items (${rows.length})</h2>
+   <p class="muted" style="margin-top:-6px;font-size:13px">Photo se parhne mein ghalti ho sakti hai. Har line check karein: naam, category aur rate. Size wale item ka rate aise likhein: <b class="num">S 599 / M 899 / L 1499</b>. Jo line ghalat ho uska tick hata dein.</p>
+   <datalist id="mi_cats">${cats.map(c=>`<option value="${esc(c)}">`).join("")}</datalist>
+   <div class="tbl-wrap" style="max-height:52vh;overflow:auto"><table id="mi_t"><tr><th></th><th>Naam</th><th>Category</th><th>Rate (PKR)</th></tr>
+   ${rows.map((r,k)=>`<tr><td><input type="checkbox" data-k="${k}" ${r.ok?"checked":""}></td><td><input class="in" data-n="${k}" value="${esc(r.name)}" style="min-width:180px"></td><td><input class="in" data-c="${k}" list="mi_cats" value="${esc(r.cat)}" style="min-width:110px"></td><td><input class="in num" data-r="${k}" value="${esc(r.rate)}" placeholder="jaise 450" style="min-width:150px"></td></tr>`).join("")}</table></div>
+   ${S.items.length?`<label class="f" style="flex-direction:row;align-items:center;gap:8px;margin-top:10px"><input type="checkbox" id="mi_rep"> Pehle wala sara menu (${S.items.length} items) hata kar yeh naya menu lagayen</label>`:""}
+   <p id="mi_err" style="color:var(--bad);min-height:18px;margin:8px 0 0"></p>
+   <div class="row" style="justify-content:flex-end"><button type="button" class="btn" id="x">Wapas</button><button class="btn y" id="mi_sv">Menu mein add karein</button></div>`);
+  m.querySelector(".md").style.width="min(900px,100%)";m.querySelector("#x").onclick=close;
+  const q=x=>m.querySelector(x),cnt=()=>{const n=m.querySelectorAll("[data-k]:checked").length;q("#mi_sv").textContent=n+" items menu mein add karein"};
+  m.querySelectorAll("[data-k]").forEach(c=>c.onchange=cnt);cnt();
+  q("#mi_sv").onclick=()=>{const err=t=>q("#mi_err").textContent=t;const out=[];
+    for(const c of m.querySelectorAll("[data-k]:checked")){const k=c.dataset.k,name=m.querySelector(`[data-n="${k}"]`).value.trim(),cat=m.querySelector(`[data-c="${k}"]`).value.trim()||"Menu",rt=readRate(m.querySelector(`[data-r="${k}"]`).value);
+      if(!name)return err("Line "+(+k+1)+": naam khali hai.");if(!rt||(!rt.price&&!(rt.sizes&&rt.sizes.length)))return err(`"${name}": rate sahi likhein (jaise 450 ya S 599 / M 899).`);
+      out.push({name:name.slice(0,60),cat:cat.slice(0,30),price:rt.price,sizes:rt.sizes})}
+    if(!out.length)return err("Koi item chuna nahi.");
+    const rep=q("#mi_rep")&&q("#mi_rep").checked;
+    busy(q("#mi_sv"),async()=>{try{
+      if(rep){for(const it of S.items.slice()){q("#mi_sv").textContent="Purana menu hata raha hai…";if(MODE==="server")await api("/api/items/"+it.id,"DELETE");else S.items=S.items.filter(i=>i.id!==it.id)}}
+      const used=new Set((rep?[]:S.items).map(i=>i.code.toUpperCase()));
+      const code=c=>{const pre=(c.replace(/[^A-Za-z]/g,"").slice(0,2)||"IT").toUpperCase();let n=1,x;do{x=pre+String(n).padStart(2,"0");n++}while(used.has(x));used.add(x);return x};
+      for(let i=0;i<out.length;i++){const it={id:uid(),code:code(out[i].cat),...out[i],barcode:"",track:false,stock:0};q("#mi_sv").textContent=`Daal raha hai ${i+1} / ${out.length}…`;
+        if(MODE==="server")await api("/api/items","POST",it);else S.items.push(it)}
+      if(MODE==="server")await pull();else saveLocal();
+      close();toast(out.length+" items menu mein aa gaye");UI.view==="settings"?vSet():UI.view==="billing"?render():vMenu();
+    }catch(x){err(x.message||String(x));if(MODE==="server")pull().catch(()=>{})}});
+  };
 }
 
 /* ============ staff permissions ============ */

diff --git a/saas.html b/saas.html
@@ -247,7 +247,7 @@
       <div class="s-f"><b>◐</b><h4>Apna look</h4><p>Apna logo, dark ya light, apna rang, aur Glass, Neumorphism ya Minimal style. Receipt ka design bhi apna.</p></div>
       <div class="s-f"><b>▤</b><h4>Reports</h4><p>Aaj ki sale, average bill, tax, 7 din ka chart, top items aur cash/card split.</p></div>
     </div>
-    <div class="s-shots"><img src="assets/saas/ak47-desktop.jpg" alt="RestoPulse billing screen desktop par" width="1366" height="800" loading="lazy"><img src="assets/saas/ak47-plans.jpg" alt="RestoPulse plans screen" width="1366" height="800" loading="lazy"></div>
+    <div class="s-shots"><img src="assets/saas/ak47-desktop.jpg" alt="RestoPulse billing screen desktop par" width="1366" height="800" loading="lazy"><img src="assets/saas/ak47-plans.jpg" alt="RestoPulse: menu ki photo se items parhne ke baad check karne ki list" width="1366" height="800" loading="lazy"></div>
   </div>
 </section>
 
